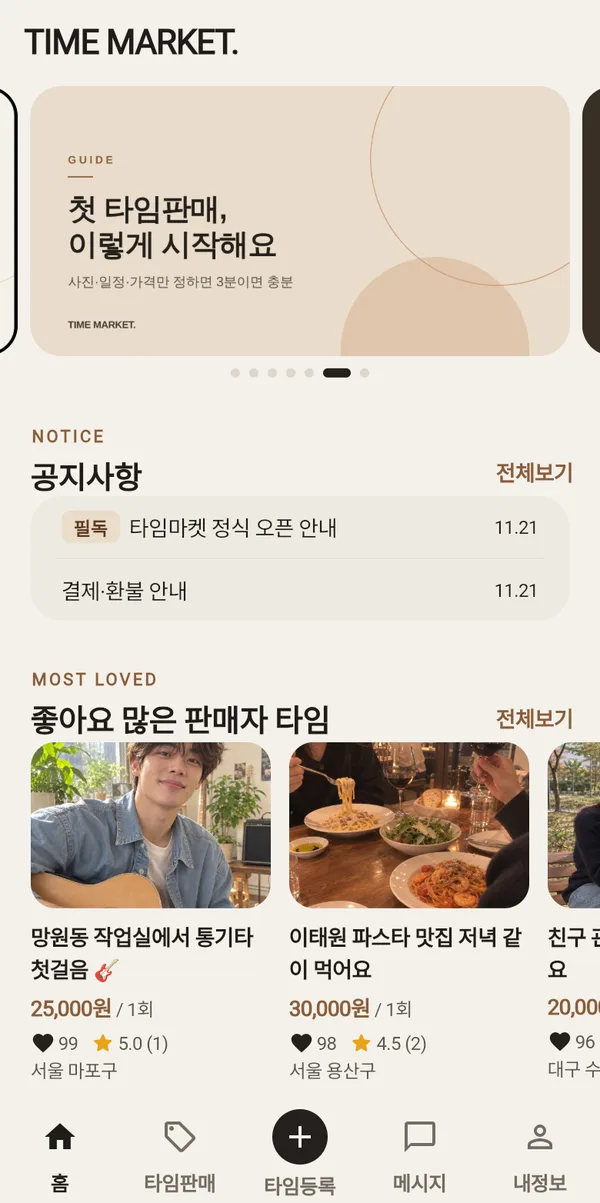
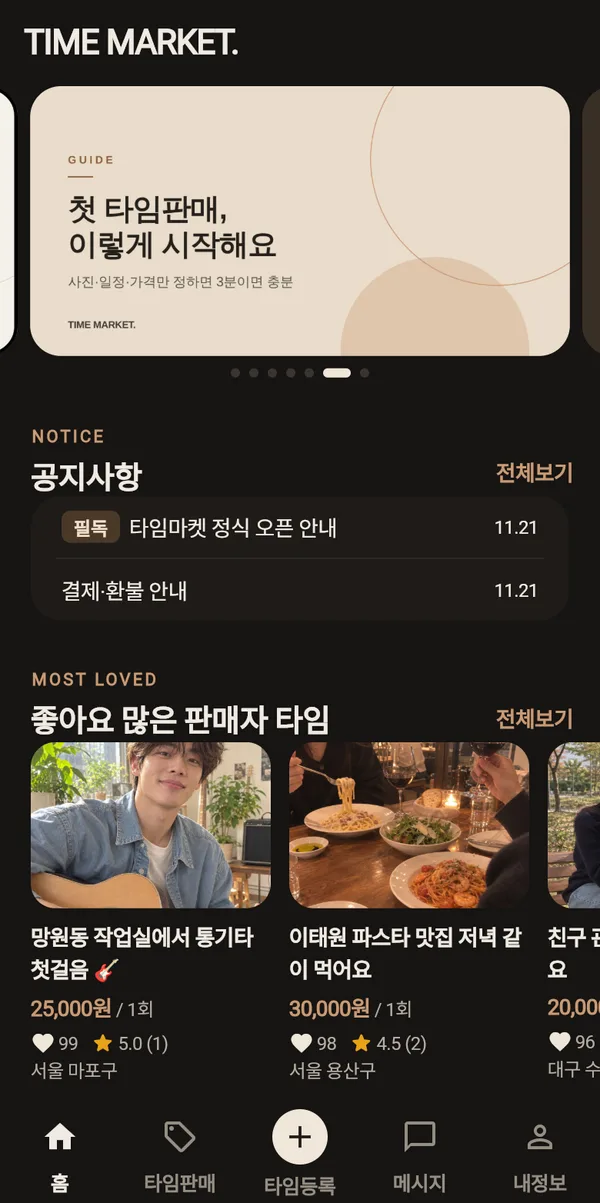
타임마켓 앱 화면을 다크 모드로 교체하고 카드 배경도 어둡게
시작·홈·타임판매 목록 3장을 앱의 다크 모드로 다시 촬영.
타임마켓 카드와 화면 배경을 앱 톤(검정·갈색)에 맞춘 어두운 색으로 변경.

Claude-Session: https://claude.ai/code/session_011nttJvkPyiCGmWjgdWMvdm

diff --git a/public/index.html b/public/index.html
@@ -15,7 +15,7 @@
 <meta property="og:description" content="타임마켓 · 여강해인터뷰 · 바이브 코딩 클래스">
 <meta name="theme-color" content="#0a0b14">
 <link rel="stylesheet" href="https://cdn.jsdelivr.net/gh/orioncactus/pretendard@v1.3.9/dist/web/variable/pretendardvariable-dynamic-subset.min.css">
-<link rel="stylesheet" href="/style.css?v=5">
+<link rel="stylesheet" href="/style.css?v=6">
 </head>
 <body>
 
@@ -73,9 +73,9 @@
             <a class="link" href="https://timemrkt.com" target="_blank" rel="noopener">timemrkt.com 둘러보기 →</a>
           </div>
           <div class="screens" aria-label="타임마켓 실제 앱 화면">
-            <figure><div class="frame"><img src="/timemarket/signup.webp" alt="타임마켓 시작 화면: 회원가입과 로그인" loading="lazy" width="600" height="1298"></div><figcaption>회원가입</figcaption></figure>
-            <figure><div class="frame"><img src="/timemarket/home.webp" alt="타임마켓 홈 화면: 공지사항과 좋아요 많은 판매자 타임" loading="lazy" width="600" height="1203"></div><figcaption>홈</figcaption></figure>
-            <figure><div class="frame"><img src="/timemarket/list.webp" alt="타임마켓 타임판매 목록 화면" loading="lazy" width="600" height="1203"></div><figcaption>타임판매 목록</figcaption></figure>
+            <figure><div class="frame"><img src="/timemarket/signup.webp?v=2" alt="타임마켓 시작 화면: 회원가입과 로그인" loading="lazy" width="600" height="1298"></div><figcaption>회원가입</figcaption></figure>
+            <figure><div class="frame"><img src="/timemarket/home.webp?v=2" alt="타임마켓 홈 화면: 공지사항과 좋아요 많은 판매자 타임" loading="lazy" width="600" height="1203"></div><figcaption>홈</figcaption></figure>
+            <figure><div class="frame"><img src="/timemarket/list.webp?v=2" alt="타임마켓 타임판매 목록 화면" loading="lazy" width="600" height="1203"></div><figcaption>타임판매 목록</figcaption></figure>
           </div>
         </article>
 

diff --git a/public/style.css b/public/style.css
@@ -247,3 +247,16 @@ footer { background: var(--hero-bg); color: var(--hero-muted); padding: 56px 0 6
   .ceo-photo { width: 140px; height: 140px; }
   .ceo-stats { grid-template-columns: 1fr 1fr; }
 }
+
+/* 타임마켓 카드: 다크 모드 앱 화면에 맞춘 어두운 배경 */
+.prod.tm { background: #141210; border-color: #2b2621; color: #f3ede6; }
+.prod.tm h3 { color: #f3ede6; }
+.prod.tm .tag { color: #b9ab9c; }
+.prod.tm p, .prod.tm .checks li { color: #d8cfc5; }
+.prod.tm .chip.soon { background: rgba(201,154,116,.14); color: #e0b48f; border-color: rgba(201,154,116,.35); }
+.prod.tm .link { color: #e0b48f; }
+.prod.tm .checks li::before { background: linear-gradient(120deg, #c99a74, #8a5d3b); }
+.prod.tm .tm-logo { border-color: transparent; }
+.screens { background: radial-gradient(120% 90% at 80% 0%, #3a2c20 0%, #1c1815 55%, #0e0c0b 100%); border: 1px solid #2b2621; }
+.screens .frame { border-color: #3a332c; background: #0e0c0b; box-shadow: 0 18px 40px rgba(0,0,0,.55); }
+.screens figcaption { color: #c9b8a6; }
